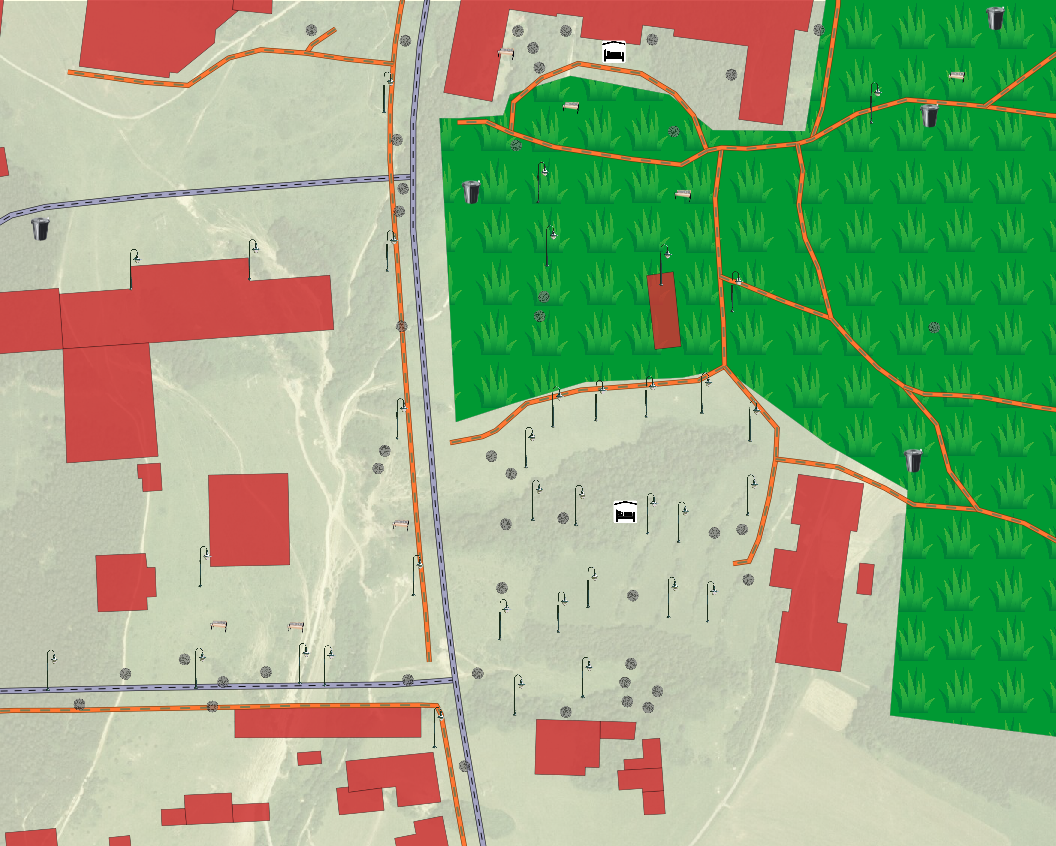
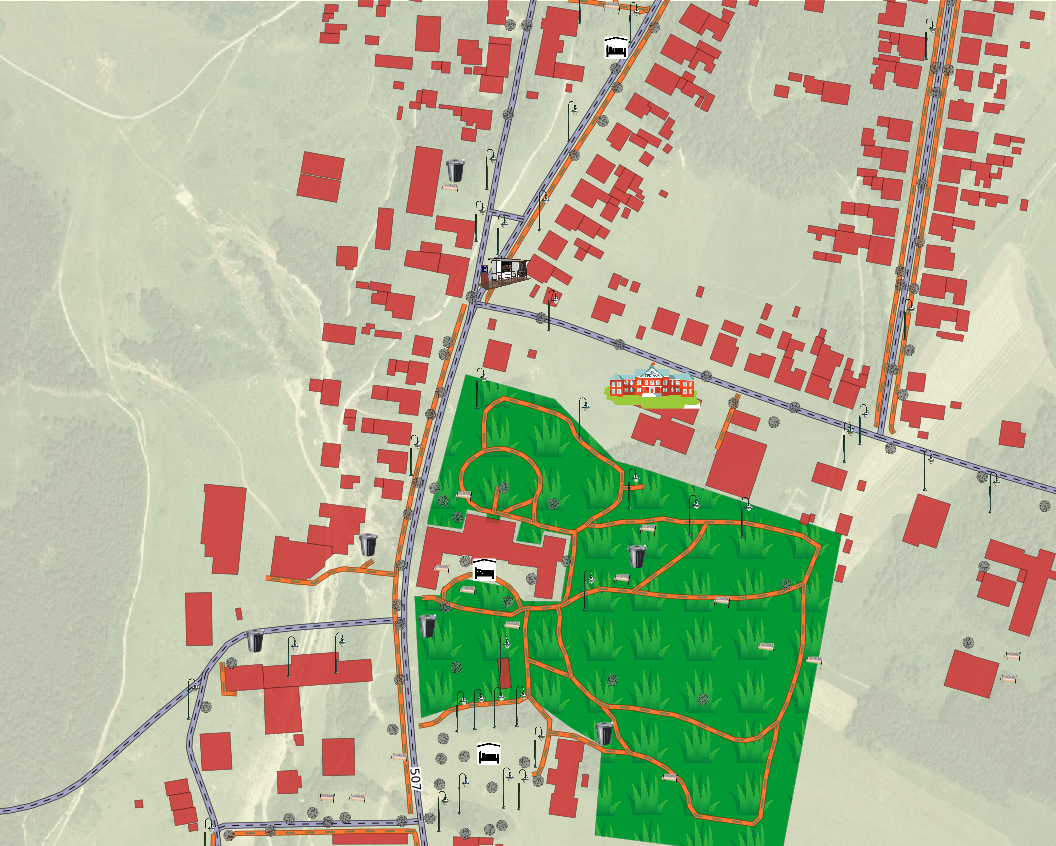
''

diff --git a/GetMap.js b/GetMap.js
@@ -54,11 +54,16 @@ var layer_park = '<Layer name="park" srs="'+proj+'">' + // same as above
 
 var style_budovy='<Style name="style_budovy">' + // style for layer "style_budovy"
 '<Rule>' +
-'<MaxScaleDenominator>15000</MaxScaleDenominator>'+
+'<MaxScaleDenominator>20000</MaxScaleDenominator>'+
 '<MinScaleDenominator>10</MinScaleDenominator>'+
     '<LineSymbolizer stroke="black" stroke-width="0.5" />' + // style for lines
     '<PolygonSymbolizer fill-opacity="0.85"  fill="#cc3333"  />' + // style for polygons
   '</Rule>' +
+  '<Rule>' +
+"<Filter>[OBJECTID] = 10611 </Filter>"+ 
+'<TextSymbolizer face-name="DejaVu Sans Book" size="30" fill="black" halo-radius="5" wrap_width="0" placement="polygon" > "KOČOVCE" </TextSymbolizer>'+
+'<MinScaleDenominator>2000</MinScaleDenominator>'+
+'</Rule>' +
 '</Style>';
 
 var layer_budovy = '<Layer name="budovy" srs="'+proj+'">' + // same as above
@@ -260,12 +265,12 @@ var schema = '<Map background-color="#ffffe6" background-image="./icon/back.png"
                 (addCintorin ? layer_cintorin : '') +                  
                 (addPark ? style_park : '') + 
                 (addPark ? layer_park : '') +
+                (addCesty ? style_cesty : '') +
+                (addCesty ? layer_cesty : '') + 
                 (addBudovy ? style_budovy : '') +
                 (addBudovy ? layer_budovy : '') + 
                 (addSkola ? style_skola : '') + 
                 (addSkola ? layer_skola : '') +   
-                (addCesty ? style_cesty : '') +
-                (addCesty ? layer_cesty : '') + 
                 (addChodniky ? style_chodniky : '') +
                 (addChodniky ? layer_chodniky : '') + 
                 (addUbytovanie ? style_ubytovanie : '') + 
@@ -280,6 +285,7 @@ var schema = '<Map background-color="#ffffe6" background-image="./icon/back.png"
                 (addKanalizacia ? layer_kanalizacia : '') + 
                 (addStlpy ? style_stlpy : '') + 
                 (addStlpy ? layer_stlpy : '') +
+                
                                
                  
             '</Map>';
